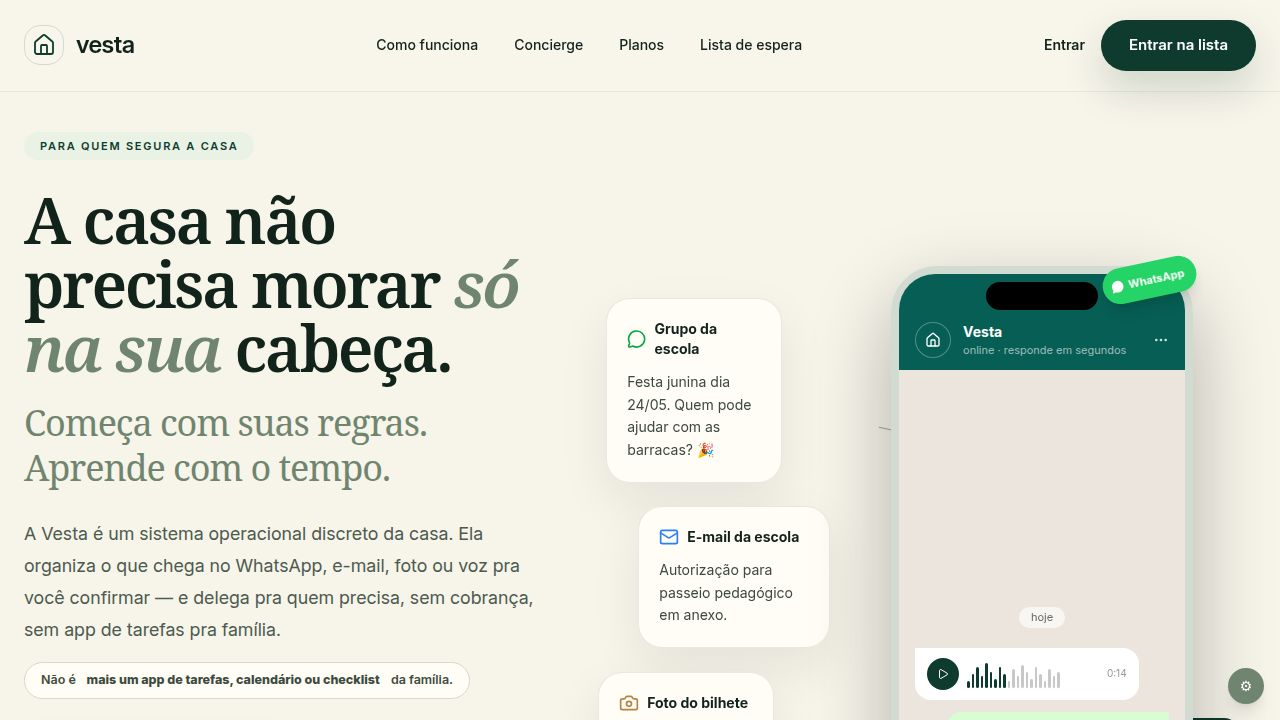
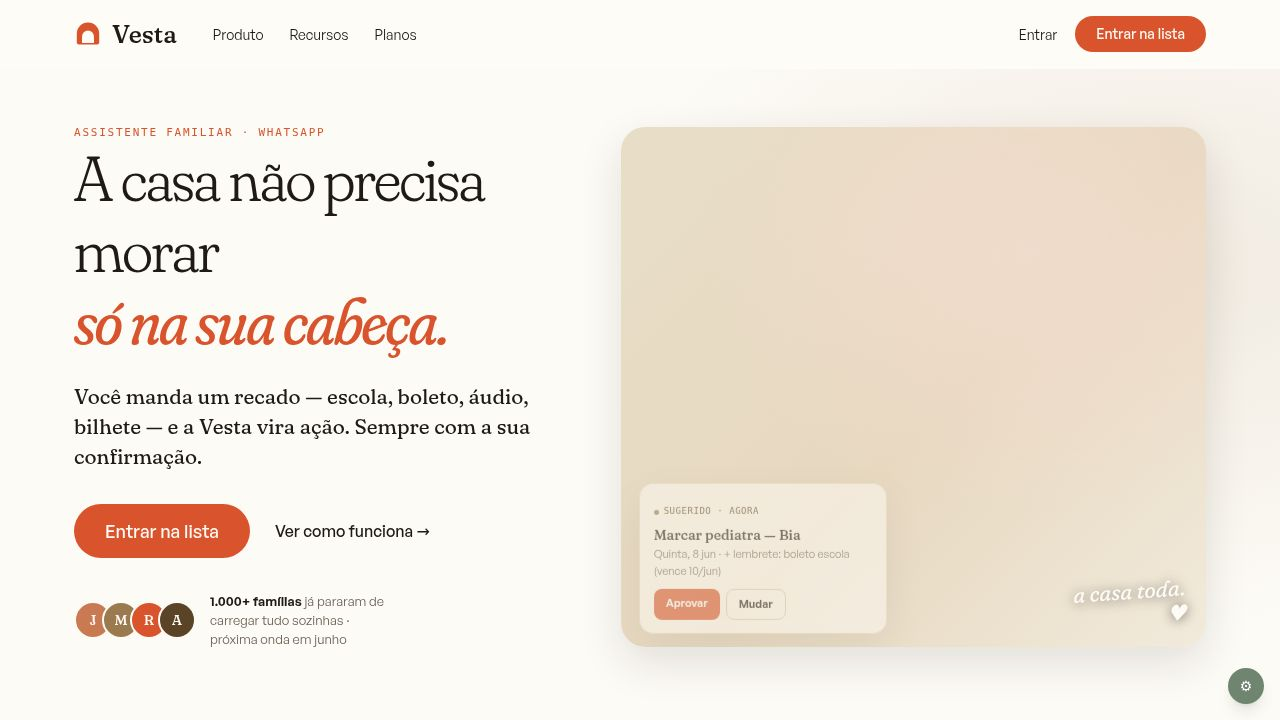
feat: track diarista consent expiry and surface renewal reminders
Task: Track when diarista consent expires and remind the household to re-request

## What changed

### Backend
- `artifacts/api-server/src/routes/contacts.ts`
  - PATCH /contacts/:id: sets `consent_check_in_due_at` to 12 months from now
    when consent_status transitions to "consented"; clears it on revoke
  - POST /contacts/:id/request-consent: now accepts "consented" contacts (renewal);
    resets status back to "pending" when a renewal is sent
  - New GET /contacts/consent-due: returns contacts whose check-in is due
    within the next 14 days (status=consented, check_in_due_at in [now, +14d])
- `artifacts/api-server/src/lib/wa-message-processor.ts`
  - Sets consent_check_in_due_at (+12 months) when WhatsApp consent reply grants consent
  - Clears consent_check_in_due_at when consent is revoked via WhatsApp
- `artifacts/api-server/src/lib/briefing-core.ts`
  - Queries contacts with upcoming check-in (within 14 days) for each household
  - Appends a ⚠️ "Renovação de consentimento (LGPD)" section to the daily briefing
    listing each contact by name

### API Contract
- `lib/api-spec/openapi.yaml`
  - Added `consent_check_in_due_at` field to Contact schema
  - Added `GET /contacts/consent-due` endpoint (operationId: getContactsConsentDue)
- Ran Orval codegen — generated `useGetContactsConsentDue` hook and
  `getGetContactsConsentDueQueryKey` query key helper

### Frontend
- `artifacts/vesta/src/pages/Casa.tsx` (PrivacyDashboard)
[…]

diff --git a/artifacts/api-server/src/routes/contacts.ts b/artifacts/api-server/src/routes/contacts.ts
@@ -1,7 +1,7 @@
 import { Router } from "express";
 import { db } from "@workspace/db";
 import { contactsTable, inboxItemsTable, householdsTable } from "@workspace/db";
-import { eq, and, sql } from "drizzle-orm";
+import { eq, and, sql, lte, gte } from "drizzle-orm";
 import { getHouseholdId } from "../lib/tenant";
 import { sendWhatsApp } from "../lib/whatsapp";
 import { replyConsentRequest } from "../lib/wa-reply-composer";
@@ -71,14 +71,20 @@ router.patch("/contacts/:id", async (req, res) => {
     if (!contact) return res.status(404).json({ error: "Not found" });
 
     // Derive consent timestamps from status transitions.
-    const consentGrantedAt =
-      consent_status === "consented" && contact.consent_status !== "consented"
-        ? new Date()
-        : contact.consent_granted_at;
-    const consentWithdrawnAt =
-      consent_status === "revoked" && contact.consent_status !== "revoked"
-        ? new Date()
-        : contact.consent_withdrawn_at;
+    const isGranting = consent_status === "consented" && contact.consent_status !== "consented";
+    const isRevoking = consent_status === "revoked" && contact.consent_status !== "revoked";
+
+    const consentGrantedAt = isGranting ? new Date() : contact.consent_granted_at;
+    const consentWithdrawnAt = isRevoking ? new Date() : contact.consent_withdrawn_at;
+
+    // Set check-in due 12 months from now when consent is granted; clear it when revoked.
+    const twelveMonthsFromNow = new Date();
+    twelveMonthsFromNow.setFullYear(twelveMonthsFromNow.getFullYear() + 1);
+    const consentCheckInDueAt = isGranting
+      ? twelveMonthsFromNow
+      : isRevoking
+        ? null
+        : contact.consent_check_in_due_at;
 
     const [updated] = await db
       .update(contactsTable)
@@ -92,6 +98,7 @@ router.patch("/contacts/:id", async (req, res) => {
           consent_status,
           consent_granted_at: consentGrantedAt,
           consent_withdrawn_at: consentWithdrawnAt,
+          consent_check_in_due_at: consentCheckInDueAt,
         }),
       })
       .where(and(eq(contactsTable.id, id), eq(contactsTable.household_id, hid)))
@@ -122,9 +129,9 @@ router.post("/contacts/:id/request-consent", async (req, res) => {
       return res.status(400).json({ error: "Contact has no phone number" });
     }
 
-    if (contact.consent_status !== "pending") {
+    if (contact.consent_status !== "pending" && contact.consent_status !== "consented") {
       return res.status(409).json({
-        error: "Consent request can only be sent when consent_status is 'pending'",
+        error: "Consent request can only be sent when consent_status is 'pending' or 'consented'",
         consent_status: contact.consent_status ?? null,
       });
     }
@@ -157,9 +164,15 @@ router.post("/contacts/:id/request-consent", async (req, res) => {
       req.log.warn({ contactId: id, error: sendResult.error }, "WhatsApp consent request failed");
     }
 
+    // If renewing an already-consented contact, reset to pending so they must re-confirm.
+    const isRenewal = contact.consent_status === "consented";
+
     const [updated] = await db
       .update(contactsTable)
-      .set({ last_consent_requested_at: new Date() })
+      .set({
+        last_consent_requested_at: new Date(),
+        ...(isRenewal && { consent_status: "pending" }),
+      })
       .where(and(eq(contactsTable.id, id), eq(contactsTable.household_id, hid)))
       .returning();
 
@@ -181,6 +194,34 @@ router.delete("/contacts/:id", async (req, res) => {
     res.status(204).send();
   } catch (err) {
     req.log.error({ err }, "Failed to delete contact");
+    res.status(500).json({ error: "Internal server error" });
+  }
+});
+
+router.get("/contacts/consent-due", async (req, res) => {
+  if (!req.isAuthenticated()) { res.status(401).json({ error: "Unauthorized" }); return; }
+  try {
+    const hid = getHouseholdId(req);
+    const now = new Date();
+    const in14Days = new Date(now);
+    in14Days.setDate(in14Days.getDate() + 14);
+
+    const contacts = await db
+      .select()
+      .from(contactsTable)
+      .where(
+        and(
+          eq(contactsTable.household_id, hid),
+          eq(contactsTable.consent_status, "consented"),
+          gte(contactsTable.consent_check_in_due_at, now),
+          lte(contactsTable.consent_check_in_due_at, in14Days),
+        ),
+      )
+      .orderBy(contactsTable.consent_check_in_due_at);
+
+    res.json(contacts);
+  } catch (err) {
+    req.log.error({ err }, "Failed to list contacts with consent due");
     res.status(500).json({ error: "Internal server error" });
   }
 });

diff --git a/artifacts/vesta/src/pages/Casa.tsx b/artifacts/vesta/src/pages/Casa.tsx
@@ -17,6 +17,7 @@ import {
   useListRules, useCreateRule, useToggleRule, useDeleteRule,
   useListPatterns, useAcceptPattern,
   useListContacts, useUpdateContact, useRequestContactConsent,
+  useGetContactsConsentDue,
   useListAuditLog,
   useDeleteAccount,
   exportPrivacyData,
@@ -24,6 +25,7 @@ import {
   type PrivacyExportSummary,
   getListMembersQueryKey,
   getListRulesQueryKey, getListPatternsQueryKey, getListContactsQueryKey,
+  getGetContactsConsentDueQueryKey,
   type Member,
   type PatternObservation,
 } from "@workspace/api-client-react";
@@ -1375,6 +1377,7 @@ function PrivacyDashboard() {
   const qc = useQueryClient();
   const { toast } = useToast();
   const { data: contacts } = useListContacts();
+  const { data: consentDueContacts = [] } = useGetContactsConsentDue();
   const [confirmDelete, setConfirmDelete] = useState(false);
   const [exporting, setExporting] = useState(false);
   const [summarizing, setSummarizing] = useState(false);
@@ -1394,6 +1397,7 @@ function PrivacyDashboard() {
     mutation: {
       onSuccess: (data) => {
         void qc.invalidateQueries({ queryKey: getListContactsQueryKey() });
+        void qc.invalidateQueries({ queryKey: getGetContactsConsentDueQueryKey() });
         toast({ description: data.whatsapp_sent ? "Solicitação enviada por WhatsApp." : "Contato atualizado (WhatsApp não configurado)." });
       },
       onError: () => toast({ description: "Erro ao solicitar consentimento.", variant: "destructive" }),
@@ -1514,6 +1518,56 @@ function PrivacyDashboard() {
           style={{ background: V.cream, border: "1px solid rgba(14,59,46,0.08)" }}>
           <p className="text-sm" style={{ color: V.muted }}>Nenhum contato externo cadastrado.</p>
           <p className="text-xs mt-1" style={{ color: V.muted }}>Adicione diaristas na aba Família.</p>
+        </div>
+      )}
+
+      {/* Consent renewal alerts */}
+      {consentDueContacts.length > 0 && (
+        <div className="rounded-2xl overflow-hidden mb-4"
+          style={{ background: "#FFFBEB", border: "1px solid #FDE68A" }}>
+          <div className="flex items-center gap-2 px-4 pt-3 pb-1">
+            <AlertCircle className="h-3.5 w-3.5 shrink-0" style={{ color: "#D97706" }} />
+            <p className="text-[10px] font-semibold uppercase tracking-wider" style={{ color: "#92400E" }}>
+              Renovação de consentimento
+            </p>
+          </div>
+          {consentDueContacts.map((contact, i) => {
+            const dueAt = contact.consent_check_in_due_at
+              ? new Date(contact.consent_check_in_due_at)
+              : null;
+            const daysUntilDue = dueAt
+              ? Math.ceil((dueAt.getTime() - Date.now()) / (1000 * 60 * 60 * 24))
+              : null;
+            return (
+              <div key={contact.id} className="flex items-center gap-3 px-4 py-3"
+                style={{ borderTop: "1px solid #FDE68A" }}>
+                <div className="w-8 h-8 rounded-lg flex items-center justify-center shrink-0"
+                  style={{ background: "#FEF3C7" }}>
+                  <Clock className="h-4 w-4" style={{ color: "#D97706" }} />
+                </div>
+                <div className="flex-1 min-w-0">
+                  <p className="text-sm font-medium truncate" style={{ color: "#92400E" }}>{contact.name}</p>
+                  <p className="text-xs" style={{ color: "#B45309" }}>
+                    {daysUntilDue !== null
+                      ? daysUntilDue <= 0
+                        ? "Consentimento venceu hoje"
+                        : `Vence em ${daysUntilDue} dia${daysUntilDue === 1 ? "" : "s"}`
+                      : "Consentimento vence em breve"}
+                  </p>
+                </div>
+                <button
+                  onClick={() => requestConsent.mutate({ id: contact.id })}
+                  disabled={requestConsent.isPending}
+                  className="text-xs px-3 py-1.5 rounded-lg font-semibold shrink-0 disabled:opacity-50"
+                  style={{ background: "#D97706", color: "white" }}>
+                  Renovar
+                </button>
+              </div>
+            );
+          })}
+          <p className="px-4 py-2 text-[10px]" style={{ color: "#B45309", borderTop: "1px solid #FDE68A" }}>
+            Uma mensagem será enviada por WhatsApp pedindo nova confirmação.
+          </p>
         </div>
       )}
 

diff --git a/artifacts/api-server/src/lib/briefing-core.ts b/artifacts/api-server/src/lib/briefing-core.ts
@@ -1,5 +1,5 @@
 import { db } from "@workspace/db";
-import { calendarEventsTable, householdsTable, onboardingStateTable, tasksTable } from "@workspace/db";
+import { calendarEventsTable, contactsTable, householdsTable, onboardingStateTable, tasksTable } from "@workspace/db";
 import { eq, and, gte, lte, sql } from "drizzle-orm";
 import { sendWhatsApp, resolveHouseholdAdminPhone } from "./whatsapp";
 import { logger } from "./logger";
@@ -83,6 +83,21 @@ export async function sendHouseholdBriefing(
       ),
     );
 
+  const in14Days = new Date(now);
+  in14Days.setDate(in14Days.getDate() + 14);
+
+  const consentDueContacts = await db
+    .select({ name: contactsTable.name })
+    .from(contactsTable)
+    .where(
+      and(
+        eq(contactsTable.household_id, householdId),
+        eq(contactsTable.consent_status, "consented"),
+        gte(contactsTable.consent_check_in_due_at, now),
+        lte(contactsTable.consent_check_in_due_at, in14Days),
+      ),
+    );
+
   const [onboardingState] = await db
     .select({ whatsapp_verified: onboardingStateTable.whatsapp_verified })
     .from(onboardingStateTable)
@@ -146,6 +161,15 @@ export async function sendHouseholdBriefing(
     }
   } else {
     lines.push("✅ Nenhuma tarefa pendente.");
+  }
+
+  if (consentDueContacts.length > 0) {
+    lines.push("");
+    lines.push("⚠️ *Renovação de consentimento (LGPD):*");
+    for (const c of consentDueContacts) {
+      lines.push(`• ${c.name} — consentimento vence em breve`);
+    }
+    lines.push("_Acesse Casa → Privacidade para renovar._");
   }
 
   lines.push("");

diff --git a/artifacts/api-server/src/lib/wa-message-processor.ts b/artifacts/api-server/src/lib/wa-message-processor.ts
@@ -336,13 +336,15 @@ export async function processInboundWAMessage(
 
       if (newStatus !== null) {
         const now = new Date();
+        const twelveMonthsFromNow = new Date(now);
+        twelveMonthsFromNow.setFullYear(twelveMonthsFromNow.getFullYear() + 1);
         await db
           .update(contactsTable)
           .set({
             consent_status: newStatus,
             ...(newStatus === "consented"
-              ? { consent_granted_at: now }
-              : { consent_withdrawn_at: now }),
+              ? { consent_granted_at: now, consent_check_in_due_at: twelveMonthsFromNow }
+              : { consent_withdrawn_at: now, consent_check_in_due_at: null }),
           })
           .where(
             and(